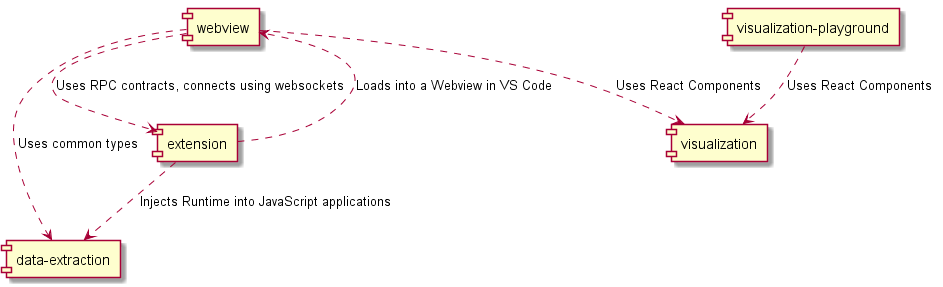
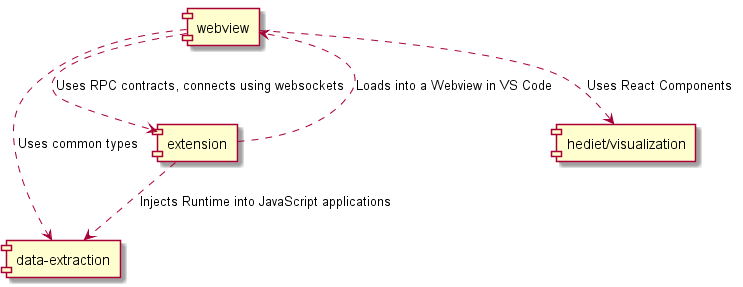
Updates docs.

diff --git a/extension/README.md b/extension/README.md
@@ -3,7 +3,7 @@
 [![](https://img.shields.io/twitter/follow/hediet_dev.svg?style=social)](https://twitter.com/intent/follow?screen_name=hediet_dev)
 
 A VS Code extension for visualizing data structures while debugging.
-Like the VS Code's watch view, but with custom visualizations.
+Like the VS Code's watch view, but with rich visualizations of the watched value.
 
 ![](../docs/demo.gif)
 
@@ -11,7 +11,7 @@ Like the VS Code's watch view, but with custom visualizations.
 
 See [demos](../demos/) for demos. These languages and debuggers are verified to work with this extension:
 
--   JavaScript/TypeScript/... using `node`/`node2`/`extensionHost` or `chrome` debug adapter: [⭐ Full Support](../demos/js)
+-   JavaScript/TypeScript/... using `node`/`node2`/`extensionHost`/`chrome`/`pwa-chrome`/`pwa-node` debug adapter: [⭐ Full Support](../demos/js)
 -   Go using `go` (Delve) debug adapter: [✅ Rudimentary Support](../demos/golang)
 -   Python using `python` debug adapter: [✅ Rudimentary Support](../demos/python)
 -   C# using `coreclr` debug adapter: [✅ Rudimentary Support](../demos/csharp)
@@ -29,20 +29,19 @@ Fully supported languages offer _Data Extractors_ which convert some well known 
 
 After installing this extension, use the command `Debug Visualizer: New View` to open a new visualizer view.
 In this view you can enter an expression that is evaluated and visualized while stepping through your application.
-This view works the same as the watch view of VS Code, except that the resulting value is presented visually rather than textually.
+This view works the same as the watch view of VS Code, except that the resulting value is presented visually rather than textually. Not all values can be processed -
+see [_Supported Values_](#Supported%20Values) for which values can be visualized.
 
-You can refresh the evaluation and open the current visualizer view into a new browser window by using the top right buttons.
-You can also unfold the details pane to select a _Data Extractor_ and a _Visualizer_.
-
-Use the command `Debug Visualizer: Use Selection as Expression` (Shift + F1) to use the currently selected text as expression
+Use the command `Debug Visualizer: Use Selection as Expression` _(Shift + F1)_ to use the currently selected text as expression
 in the most recently opened debug visualizer.
 
 ## Supported Values
 
-Visualizers consume specific JSON data. See [Integrated Visualizers](#Integrated%20Visualizers) for the schema of supported JSON data.
+Visualizers consume specific JSON data. This extension uses [hediet/visualization](https://github.com/hediet/visualization), a generic visualization framework.
+You can see in its [playground](https://hediet.github.io/visualization/) which data can be visualized and how the visualization looks like.
 
 The currently watched expression should evaluate to a JSON Object string,
-matching the schema of one of the supported visualizers. This JSON string may be surrounded by single or double quotation marks (or none at all) and must not be escaped.
+matching the [schema](https://hediet.github.io/visualization/docs/visualization-data-schema.json) of one of the supported visualizers. This JSON string may be surrounded by single or double quotation marks (or none at all) and must not be escaped.
 A valid example is `"{ "kind": { "text": true }, "text": "some text\nmore text" }"`.
 
 For some languages (TypeScript/JavaScript), runtime code is injected to support _Data Extractors_.
@@ -50,171 +49,7 @@ A Data Extractor lifts the requirement for the visualized value to be a JSON str
 and acts as a bridge between custom data structures and the JSON data processed by the visualizers.
 When multiple Data Extractors are applicable, a preferred one can be selected in the visualization view.
 
-## Integrated Visualizers
-
-The following visualizers are built into this extension.
-
-### Graph Visualization
-
-[Demo](https://hediet.github.io/vscode-debug-visualizer/?value=%7B%0A++++%22kind%22%3A+%7B+%22graph%22%3A+true+%7D%2C%0A++++%22nodes%22%3A+%5B%0A++++++++%7B+%22id%22%3A+%221%22%2C+%22label%22%3A+%221%22+%7D%2C%0A++++++++%7B+%22id%22%3A+%222%22%2C+%22label%22%3A+%222%22%2C+%22color%22%3A+%22orange%22+%7D%2C%0A++++++++%7B+%22id%22%3A+%223%22%2C+%22label%22%3A+%223%22+%7D%0A++++%5D%2C%0A++++%22edges%22%3A+%5B%0A++++++++%7B+%22from%22%3A+%221%22%2C+%22to%22%3A+%222%22%2C+%22color%22%3A+%22red%22+%7D%2C%0A++++++++%7B+%22from%22%3A+%221%22%2C+%22to%22%3A+%223%22+%7D%0A++++%5D%0A%7D).
-The Graphviz and vis.js visualizers render data that matches the `Graph` interface.
-
-```ts
-interface Graph {
-	kind: { graph: true };
-	nodes: NodeGraphData[];
-	edges: EdgeGraphData[];
-}
-
-interface NodeGraphData {
-	id: string;
-	label?: string;
-	color?: string;
-	shape?: "ellipse" | "box";
-}
-
-interface EdgeGraphData {
-	from: string;
-	to: string;
-	label?: string;
-	id?: string;
-	color?: string;
-	dashes?: boolean;
-}
-```
-
-The graphviz visualizer uses the SVG viewer to render the SVG created by `viz.js`.
-
-![](../docs/visualization-graphviz.png)
-![](../docs/visualization-visjs.png)
-
-### Plotly Visualization
-
-[Demo](https://hediet.github.io/vscode-debug-visualizer/?value=%7B%22kind%22%3A%7B%22plotly%22%3Atrue%7D%2C%22data%22%3A%5B%7B%22y%22%3A%5B0%2C1%2C2%2C3%2C4%2C3%2C4%2C3%2C2%2C1%2C2%5D%7D%5D%7D).
-The plotly visualizer uses plotly and can visualize JSON data matching the following interface:
-
-```ts
-export interface Plotly {
-	kind: { plotly: true };
-	data: Partial<Plotly.Data>[];
-}
-// See plotly docs for Plotly.Data.
-```
-
-![](../docs/visualization-plotly-random-walk.png)
-
-### Tree Visualization
-
-The tree visualizer renders data that matches the `Tree` interface.
-
-```ts
-interface Tree<TData = unknown> {
-	kind: { tree: true };
-	root: TreeNode<TData>;
-}
-interface TreeNode<TExtraData> {
-	id: string | undefined;
-	name: string;
-	value: string | undefined;
-	emphasizedValue: string | undefined;
-	children: TreeNode<TExtraData>[];
-	data: TExtraData;
-	isMarked: boolean;
-}
-```
-
-![](../docs/visualization-tree.png)
-
-### AST Visualization
-
-[Demo](https://hediet.github.io/vscode-debug-visualizer/?value=%7B%22kind%22%3A%7B%22text%22%3Atrue%2C%22tree%22%3Atrue%2C%22ast%22%3Atrue%7D%2C%22root%22%3A%7B%22name%22%3A%22SourceFile%22%2C%22id%22%3A%22root%22%2C%22children%22%3A%5B%7B%22name%22%3A%22ClassDeclaration%22%2C%22id%22%3A%22statements%22%2C%22children%22%3A%5B%7B%22name%22%3A%22Identifier%22%2C%22id%22%3A%22name%22%2C%22children%22%3A%5B%5D%2C%22data%22%3A%7B%22length%22%3A6%2C%22position%22%3A6%7D%2C%22isMarked%22%3Afalse%2C%22value%22%3A%22Test1%22%7D%2C%7B%22name%22%3A%22MethodDeclaration%22%2C%22id%22%3A%22members%22%2C%22children%22%3A%5B%7B%22name%22%3A%22PublicKeyword%22%2C%22id%22%3A%22modifiers%22%2C%22children%22%3A%5B%5D%2C%22data%22%3A%7B%22length%22%3A8%2C%22position%22%3A14%7D%2C%22isMarked%22%3Afalse%7D%2C%7B%22name%22%3A%22Identifier%22%2C%22id%22%3A%22name%22%2C%22children%22%3A%5B%5D%2C%22data%22%3A%7B%22length%22%3A4%2C%22position%22%3A22%7D%2C%22isMarked%22%3Afalse%2C%22value%22%3A%22foo%22%7D%2C%7B%22name%22%3A%22Parameter%22%2C%22id%22%3A%22parameters%22%2C%22children%22%3A%5B%7B%22name%22%3A%22Identifier%22%2C%22id%22%3A%22name%22%2C%22children%22%3A%5B%5D%2C%22data%22%3A%7B%22length%22%3A1%2C%22position%22%3A27%7D%2C%22isMarked%22%3Afalse%2C%22value%22%3A%22a%22%7D%2C%7B%22name%22%3A%22NumberKeyword%22%2C%22id%22%3A%22type%22%2C%22children%22%3A%5B%5D%2C%22data%22%3A%7B%22length%22%3A7%2C%22position%22%3A29%7D%2C%22isMarked%22%3Afalse%7D%5D%2C%22data%22%3A%7B%22length%22%3A9%2C%22position%22%3A27%7D%2C%22isMarked%22%3Afalse%7D%2C%7B%22name%22%3A%22Block%22%2C%22id%22%3A%22body%22%2C%22children%22%3A%5B%7B%22name%22%3A%22VariableStatement%22%2C%22id%22%3A%22statements%22%2C%22children%22%3A%5B%7B%22name%22%3A%22VariableDeclarationList%22%2C%22id%22%3A%22declarationList%22%2C%22children%22%3A%5B%7B%22name%22%3A%22VariableDeclaration%22%2C%22id%22%3A%22declarations%22%2C%22children%22%3A%5B%7B%22name%22%3A%22Identifier%22%2C%22id%22%3A%22name%22%2C%22children%22%3A%5B%5D%2C%22data%22%3A%7B%22length%22%3A2%2C%22position%22%3A47%7D%2C%22isMarked%22%3Afalse%2C%22value%22%3A%22x%22%7D%2C%7B%22name%22%3A%22ObjectLiteralExpression%22%2C%22id%22%3A%22initializer%22%2C%22children%22%3A%5B%7B%22name%22%3A%22PropertyAssignment%22%2C%22id%22%3A%22properties%22%2C%22children%22%3A%5B%7B%22name%22%3A%22Identifier%22%2C%22id%22%3A%22name%22%2C%22children%22%3A%5B%5D%2C%22data%22%3A%7B%22length%22%3A2%2C%22position%22%3A53%7D%2C%22isMarked%22%3Afalse%2C%22value%22%3A%22a%22%7D%2C%7B%22name%22%3A%22FirstLiteralToken%22%2C%22id%22%3A%22initializer%22%2C%22children%22%3A%5B%5D%2C%22data%22%3A%7B%22length%22%3A2%2C%22position%22%3A56%7D%2C%22isMarked%22%3Afalse%2C%22value%22%3A%225%22%7D%5D%2C%22data%22%3A%7B%22length%22%3A5%2C%22position%22%3A53%7D%2C%22isMarked%22%3Afalse%7D%5D%2C%22data%22%3A%7B%22length%22%3A9%2C%22position%22%3A51%7D%2C%22isMarked%22%3Afalse%7D%5D%2C%22data%22%3A%7B%22length%22%3A13%2C%22position%22%3A47%7D%2C%22isMarked%22%3Afalse%7D%5D%2C%22data%22%3A%7B%22length%22%3A21%2C%22position%22%3A39%7D%2C%22isMarked%22%3Afalse%7D%5D%2C%22data%22%3A%7B%22length%22%3A22%2C%22position%22%3A39%7D%2C%22isMarked%22%3Afalse%7D%5D%2C%22data%22%3A%7B%22length%22%3A27%2C%22position%22%3A37%7D%2C%22isMarked%22%3Afalse%7D%5D%2C%22data%22%3A%7B%22length%22%3A50%2C%22position%22%3A14%7D%2C%22isMarked%22%3Afalse%7D%5D%2C%22data%22%3A%7B%22length%22%3A66%2C%22position%22%3A0%7D%2C%22isMarked%22%3Afalse%7D%2C%7B%22name%22%3A%22EndOfFileToken%22%2C%22id%22%3A%22endOfFileToken%22%2C%22children%22%3A%5B%5D%2C%22data%22%3A%7B%22length%22%3A1%2C%22position%22%3A66%7D%2C%22isMarked%22%3Afalse%7D%5D%2C%22data%22%3A%7B%22length%22%3A67%2C%22position%22%3A0%7D%2C%22isMarked%22%3Atrue%7D%2C%22text%22%3A%22%5Cnclass+Test1+%7B%5Cn%5Ctpublic+foo%28a%3A+number%29+%7B%5Cn%5Ct%5Ctconst+x+%3D+%7B+a%3A+5+%7D%3B%5Cn%5Ct%7D%5Cn%7D%5Cn%22%2C%22fileName%22%3A%22index.ts%22%7D).
-The AST (Abstract Syntax Tree) visualizer renders data that matches the `Ast` interface.
-
-```ts
-interface Ast
-	extends Tree<{
-			position: number;
-			length: number;
-		}>,
-		Text {
-	kind: { text: true; tree: true; ast: true };
-}
-```
-
-Additionally to the tree view, the source code is rendered and when selecting an AST node,
-its span in the source code is highlighted.
-
-![](../docs/visualization-ast.png)
-
-### Grid Visualization
-
-Visualizes data matching the following interface:
-
-```ts
-export interface Grid {
-	kind: { array: true };
-	columnLabels?: { label?: string }[];
-	rows: {
-		label?: string;
-		columns: {
-			content?: string;
-			tag?: string;
-			color?: string;
-		}[];
-	}[];
-	markers?: {
-		id: string;
-
-		row: number;
-		column: number;
-		rows?: number;
-		columns?: number;
-
-		label?: string;
-		color?: string;
-	}[];
-}
-```
-
-![](../docs/visualization-grid.gif)
-
-### Text Visualization
-
-The text visualizer renders data that matches the `Text` interface.
-
-```ts
-interface Text {
-	kind: { text: true };
-	text: string;
-	mimeType?: string;
-	fileName?: string;
-}
-```
-
-The `mimeType` and the file extension of `fileName` are used for syntax highlighting.
-
-### SVG Visualization
-
-The SVG visualizer renders data that matches the `Svg` interface.
-The actual SVG data must be stored in `text`.
-
-```ts
-interface Svg extends Text {
-	kind: { text: true; svg: true };
-}
-```
-
-### Dot Graph Visualization
-
-The Graphviz Dot visualizer renders data that matches the `DotGraph` interface.
-
-```ts
-interface DotGraph extends Text {
-	kind: { text: true; dotGraph: true };
-}
-```
-
-`Viz.js` (Graphviz) is used for rendering.
+There is a [JSON Schema for all supported visualizations](https://hediet.github.io/visualization/docs/visualization-data-schema.json) and a [typescript declaration file](https://hediet.github.io/visualization/docs/visualization-data.ts).
 
 ## JavaScript/TypeScript Integrated Data Extractors
 
@@ -224,35 +59,22 @@ Custom data extractors can be registered too.
 See the package `@hediet/debug-visualizer-data-extraction` and its [README](../data-extraction/README.md) for the implementation and its API.
 Also, a global object of name `hedietDbgVis` with helper functions is injected.
 
-### ToString
-
-Just calls `.toString()` on values and treats the result as text.
-
-### TypeScript AST
-
--   Direct Visualization of `ts.Node`s
--   Visualization of `Record<string, ts.Node>` and `[ts.Node]`. If the record contains a key `fn`, its value is displayed for each node.
-
-### As Is Data Extractor
-
-Treats the data as direct input to the visualizer.
-
-### Use Method 'getDebugVisualization'
-
-Calls `.getDebugVisualization()` on values and treats the result as direct input to the visualizer.
-
-### Plotly y-Values
-
-Uses plotly to plot an array of numbers.
-
-### Object Graph
-
-Constructs a graph containing all objects reachable from object the expression evaluates to.
-Graph is constructed using a breadth search. Stops after 50 nodes.
-
-### Array Grid
-
-Creates Grid visualization data for an array.
+-   **ToString**
+    -   Just calls `.toString()` on values and treats the result as text.
+-   **TypeScript AST**
+    -   Direct Visualization of `ts.Node`s
+    -   Visualization of `Record<string, ts.Node>` and `ts.Node[]`. If the record contains a key `fn`, its value is displayed for each node.
+-   **As Is Data Extractor**
+    -   Treats the data as direct input to the visualizer.
+-   **Use Method 'getVisualizationData'**
+    -   Calls `.getVisualizationData()` on values and treats the result as direct input to the visualizer.
+-   **Plotly y-Values**
+    -   Uses plotly to plot an array of numbers.
+-   **Object Graph**
+    -   Constructs a graph containing all objects reachable from object the expression evaluates to.
+        Graph is constructed using a breadth search. Stops after 50 nodes.
+-   **Array Grid**
+    -   Creates Grid visualization data for an array.
 
 ## UI Features
 
@@ -282,7 +104,7 @@ This extension provides these configuration options:
 
     Configurations here overwrite the built-in support for the corresponding debug adapter type.
 
-*   `debugVisualizer.useChromeKioskMode`
+-   `debugVisualizer.useChromeKioskMode`
 
     Specifies whether to pop out Debug Visualization Views with Chrome in Kiosk Mode. Uses the default browser otherwise or if Chrome is not found. Defaults to `true`.
 

diff --git a/CONTRIBUTING.md b/CONTRIBUTING.md
@@ -42,16 +42,10 @@ Implements the UI and is hosted inside a webview in VS Code.
 Can be opened in a browser window.
 Uses websockets and JSON RPC to communicate with the extension.
 
-### visualization
+### hediet/visualization
 
-Contains React components that visualize various JSON documents.
-Also provides infrastructure for selecting the best visualization for a given JSON document.
-
-### visualization-playground
-
-A playground to test and play with the visualizations for the web.
-Is hosted at [https://hediet.github.io/vscode-debug-visualizer/](https://hediet.github.io/vscode-debug-visualizer/).
-Aims to have fast build times.
+Contains all the visualizers and visualization infrastructure.
+This external project can be found [here](https://github.com/hediet/visualization).
 
 ### extension
 
